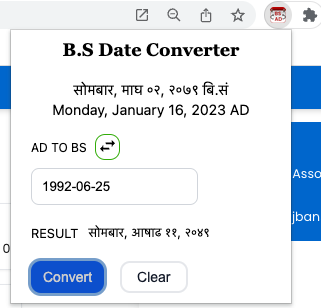
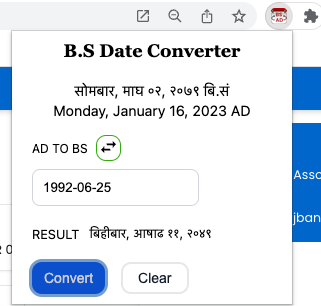
v0.3.1

diff --git a/public/popup.js b/public/popup.js
@@ -360,16 +360,16 @@
     function formatedResponsAD(date_str_ad) {
         if ((date_str_ad + "").includes('Invalid')) return date_str_ad;
         return new Date(date_str_ad).toLocaleString('en-ca', {
-            month: 'short',
+            month: 'long',
             day: 'numeric',
             year: 'numeric',
-            weekday: 'short'
+            weekday: 'long'
         })
     }
 
-    function formatedResponsBS(date_str_bs) {
+    function formatedResponsBS(date_str_bs, date_ad) {
         if ((date_str_bs + "").includes('Invalid')) return date_str_bs;
-        const weekday_BS = weekDayBS[new Date().getDay()];
+        const weekday_BS = weekDayBS[new Date(date_ad).getDay()];
         const year_bs = convertToNepali(date_str_bs.split("-")[0]);
         const month_bs = date_str_bs.split("-")[1];
         const day_bs = convertToNepali(date_str_bs.split("-")[2]);
@@ -435,7 +435,7 @@
         const [year, month, day] = stringDate.split("-");
         if (date && !dateBS2AD) {
             const res = ADTOBS(year, month - 1, day);
-            resultElement.innerHTML = formatedResponsBS(res);
+            resultElement.innerHTML = formatedResponsBS(res, stringDate);
         }
         else if (date && dateBS2AD) {
             if (day) {

diff --git a/src/utils.js b/src/utils.js
@@ -358,16 +358,16 @@ export function getTodayDateAD() {
 export function formatedResponsAD(date_str_ad) {
     if ((date_str_ad + "").includes('Invalid')) return date_str_ad;
     return new Date(date_str_ad).toLocaleString('en-ca', {
-        month: 'short',
+        month: 'long',
         day: 'numeric',
         year: 'numeric',
-        weekday: 'short'
+        weekday: 'long'
     })
 }
 
-export function formatedResponsBS(date_str_bs) {
+export function formatedResponsBS(date_str_bs, date_ad) {
     if ((date_str_bs + "").includes('Invalid')) return date_str_bs;
-    const weekday_BS = weekDayBS[new Date().getDay()];
+    const weekday_BS = weekDayBS[new Date(date_ad).getDay()];
     const year_bs = convertToNepali(date_str_bs.split("-")[0]);
     const month_bs = date_str_bs.split("-")[1];
     const day_bs = convertToNepali(date_str_bs.split("-")[2]);

diff --git a/src/index.js b/src/index.js
@@ -50,7 +50,7 @@ convertButtton.onclick = async () => {
     const [year, month, day] = stringDate.split("-");
     if (date && !dateBS2AD) {
         const res = ADTOBS(year, month - 1, day);
-        resultElement.innerHTML = formatedResponsBS(res)
+        resultElement.innerHTML = formatedResponsBS(res, stringDate)
     }
     else if (date && dateBS2AD) {
         if (year, month, day) {

diff --git a/README.md b/README.md
@@ -5,3 +5,5 @@
 ![Screen shot -2 ](screenshots/sample-2.png?raw=true "Sample 2")
 
 ![Screen shot -3 ](screenshots/sample-3.png?raw=true "Sample 3")
+
+![Screen shot -4 ](screenshots/sample-4.png?raw=true "Sample 4")
